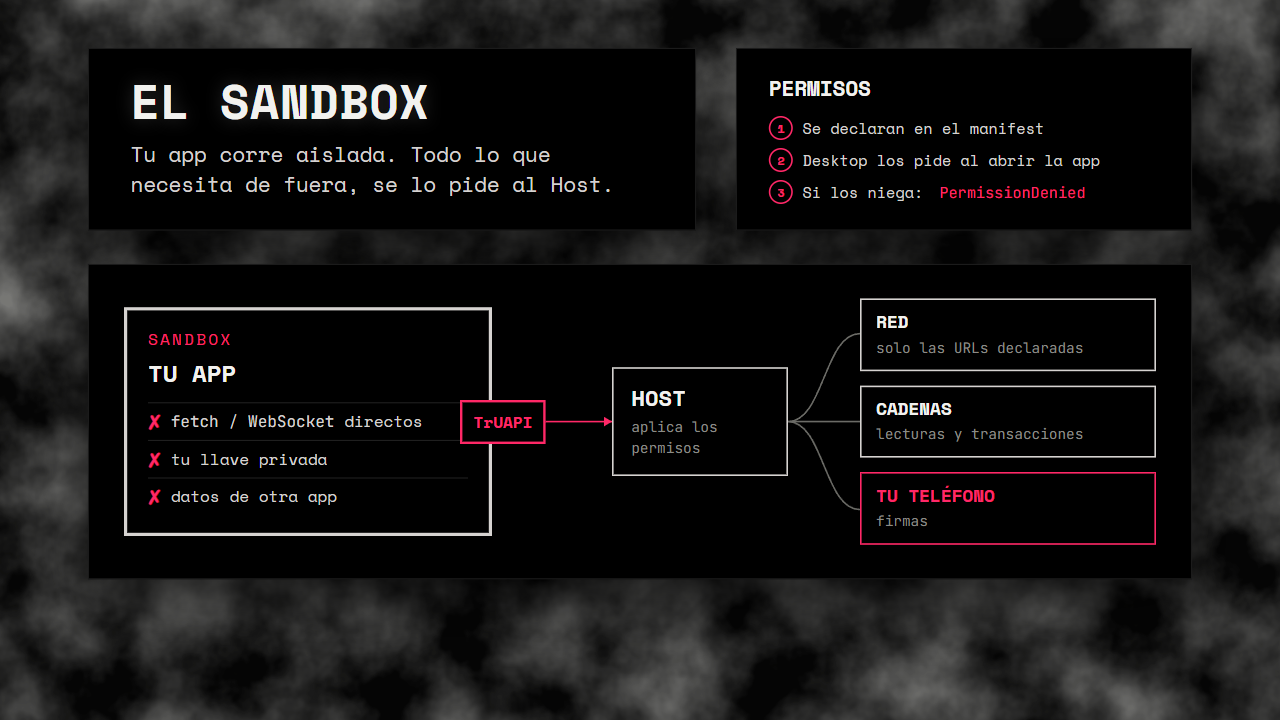
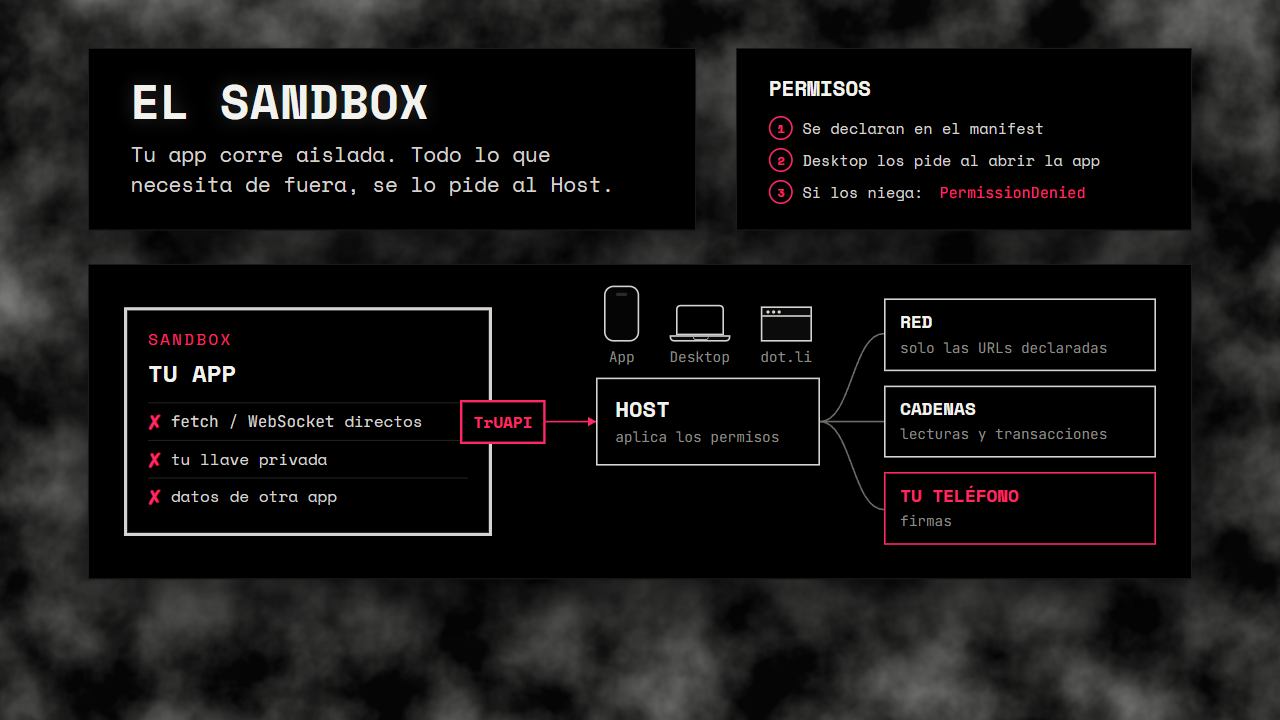
docs(slides): ajustes de diapositivas (portadas visuales, sandbox con hosts, contratos, contexto, skills, publicar)

Changed region(s): [[0.4688, 0.3972, 0.875, 0.7333], [0.5312, 0.3972, 0.5625, 0.4278]]

diff --git a/slides/00-introduccion.html b/slides/00-introduccion.html
@@ -25,10 +25,15 @@
     <div class="tape" style="right:60px; top:120px; transform:rotate(6deg);">SIN SERVIDORES</div>
     <div class="tape" style="left:150px; bottom:100px; transform:rotate(5deg);">TU IDENTIDAD</div>
     <div class="tape" style="right:120px; bottom:110px; transform:rotate(-4deg);">TU APP .DOT</div>
-    <div class="panel" style="left:220px; top:248px; width:1160px;">
+    <div class="panel" style="left:110px; top:248px; width:900px;">
       <div class="kicker">Bootcamp + Hackatón · UANL 2026</div>
-      <div class="title">Construye y publica<br>tu app en Polkadot</div>
+      <div class="title" style="font-size:64px;">Construye y publica<br>tu app en Polkadot</div>
       <div class="sub">Con IA, desde cero, hasta tenerla en el celular de cualquiera.</div>
+    </div>
+    <div class="panel" style="left:1100px; top:240px; width:390px; padding:30px 50px 32px;">
+      <div class="kicker" style="letter-spacing:.2em;">Haz fork y síguelo</div>
+      <img class="qr" src="assets/qr-repo.svg" alt="Código QR del repositorio del tutorial" style="margin-top:20px; width:240px; height:240px;">
+      <div class="small" style="font-size:18px; margin-top:18px; color:var(--muted);">github.com/BrandonFilth/<br>polkadot-devnet-workshop</div>
     </div>
   </section>
 
@@ -39,12 +44,11 @@
       <div class="title" style="font-size:72px;">Tu app en Polkadot</div>
       <div class="sub">Una app y un smart contract, hechos con IA, en tu propio dominio <span class="pink">.dot</span>.</div>
     </div>
-    <div class="item flow" style="left:110px; top:560px;">
+    <div class="item flow" style="left:110px; top:660px;">
       <div class="chip"><b>Tu app</b><span>corre en la Polkadot App</span></div>
       <div class="chip"><b>Tu smart contract</b><span>lo despliegas tú</span></div>
       <div class="chip"><b class="pink">Tu .dot</b><span>tu propio dominio</span></div>
     </div>
-    <div class="item lead" style="left:110px; top:710px; width:960px; font-size:22px;">Ejemplo: Polka-Man en <span class="pink">polka-man.dot</span>. En el hackatón construyes la tuya de la misma forma.</div>
     <div class="item" style="left:1160px; top:90px; width:300px;">
       <div class="i-phone"><div class="i-url">polka-man.dot</div><img src="../img/cap5/polka-man-movil.png" alt="Polka-Man en el celular: HUD con puntaje, ronda, vidas y menú; el laberinto grande con Polka-Man rosa y dos fantasmas; el joystick flotante bajo el dedo y el botón rojo de pausa abajo"></div>
     </div>
@@ -83,8 +87,34 @@
         <div class="row hi"><span class="n">06</span><span class="t">Hackatón</span><span class="d">Tu proyecto</span></div>
       </div>
     </div>
-    <div class="tape" style="right:90px; top:220px; transform:rotate(7deg);">PRODUCT SDK</div>
-    <div class="tape pink" style="right:90px; bottom:250px; transform:rotate(-5deg);">HACKATÓN</div>
+    <div class="item" style="left:1060px; top:70px; width:430px; height:640px;">
+      <svg width="430" height="640" viewBox="0 0 430 640" aria-hidden="true" style="display:block;" fill="none" stroke-linecap="round" stroke-linejoin="round">
+        <path d="M100 131 C 100 180, 330 160, 330 212 C 330 260, 100 246, 100 294 C 100 342, 330 327, 330 375 C 330 423, 100 408, 100 456" stroke="#6b6b66" stroke-width="3" stroke-dasharray="4 10"/>
+        <path d="M100 456 C 100 504, 330 490, 330 538" stroke="#ff2867" stroke-width="3" stroke-dasharray="4 10"/>
+        <g stroke="#3a3a37" stroke-width="2" fill="#050505">
+          <circle cx="100" cy="131" r="40"/><circle cx="330" cy="212" r="40"/><circle cx="100" cy="294" r="40"/>
+          <circle cx="330" cy="375" r="40"/><circle cx="100" cy="456" r="40"/>
+        </g>
+        <circle cx="330" cy="538" r="40" stroke="#ff2867" stroke-width="2" fill="#050505"/>
+        <g stroke="#d6d3d1" stroke-width="3">
+          <!-- 01 teléfono -->
+          <g transform="translate(68 99)"><rect x="20" y="8" width="24" height="48" rx="5"/><path d="M28 49 H36"/></g>
+          <!-- 02 terminal -->
+          <g transform="translate(298 180)"><rect x="8" y="14" width="48" height="36" rx="4"/><path d="M16 26 L22 32 L16 38 M26 40 H36"/></g>
+          <!-- 03 bloque de contrato -->
+          <g transform="translate(68 262)"><path d="M32 10 L52 21 V43 L32 54 L12 43 V21 Z M12 21 L32 32 L52 21 M32 32 V54"/></g>
+          <!-- 04 burbuja de chat -->
+          <g transform="translate(298 343)"><path d="M10 14 H54 V42 H30 L20 52 V42 H10 Z M18 24 H46 M18 32 H38"/></g>
+          <!-- 05 globo con .dot -->
+          <g transform="translate(68 424)"><circle cx="32" cy="18" r="14"/><ellipse cx="32" cy="18" rx="6" ry="14"/><path d="M18 18 H46"/></g>
+        </g>
+        <text x="100" y="484" text-anchor="middle" fill="#ff2867" style="font:18px var(--mono);">.dot</text>
+        <!-- 06 trofeo -->
+        <g transform="translate(298 506)" stroke="#ff2867" stroke-width="3">
+          <path d="M20 12 H44 V24 C44 34 38 40 32 40 C26 40 20 34 20 24 Z M20 16 H12 V20 C12 26 16 28 20 28 M44 16 H52 V20 C52 26 48 28 44 28 M32 40 V48 M22 52 H42"/>
+        </g>
+      </svg>
+    </div>
   </section>
 
   <div class="progress" id="progress"></div>

diff --git a/slides/01-como-funciona.html b/slides/01-como-funciona.html
@@ -91,6 +91,18 @@
 .d-gate > b { position: relative; margin-left: -40px; border: 3px solid var(--accent); background: #000; color: var(--accent); font: 700 20px var(--display); padding: 10px 14px; }
 .d-gate > i { flex: 1; border-top: 2px solid var(--accent); position: relative; }
 .d-gate > i::after { content: ''; position: absolute; right: 0; top: -7px; border: 6px solid transparent; border-left: 10px solid var(--accent); border-right: 0; }
+/* Miniaturas de los tres Hosts sobre el recuadro Host del sandbox */
+.d-hosts { position: absolute; left: 10px; right: 10px; bottom: calc(100% + 14px); display: flex; justify-content: space-between; align-items: flex-end; }
+.d-hosts > div { display: flex; flex-direction: column; align-items: center; gap: 8px; }
+.d-hosts span { font: 18px var(--mono); color: var(--muted); }
+.d-hosts .v-phone { width: 44px; height: 70px; border-radius: 12px; padding: 0; }
+.d-hosts .v-phone::before { top: 7px; width: 14px; height: 4px; margin-left: -7px; }
+.d-hosts .v-laptop .v-screen { width: 60px; height: 38px; margin: 0 8px; padding: 0; border-radius: 6px 6px 0 0; }
+.d-hosts .v-laptop .v-base { height: 8px; border-radius: 0 0 6px 6px; }
+.d-hosts .v-laptop .v-base::after { width: 18px; height: 3px; margin-left: -9px; border-width: 1px; }
+.d-hosts .v-win { width: 64px; height: 44px; border-color: #d6d3d1; }
+.d-hosts .v-win .v-bar { height: 11px; padding: 0 5px; gap: 3px; border-bottom: 2px solid #d6d3d1; }
+.d-hosts .v-win .v-bar i { width: 4px; height: 4px; background: #d6d3d1; }
 /* Ramas de una cuenta raíz */
 .d-pair { display: flex; flex-direction: column; align-items: stretch; }
 .d-pair .d-down { font: 700 26px var(--display); color: var(--muted); text-align: center; padding: 6px 0; }
@@ -145,9 +157,6 @@
       </div>
       <div class="d-lbl">Polkadot Web</div>
     </div>
-
-    <div class="tape" style="left:1300px; top:110px; transform:rotate(6deg);">SANDBOX</div>
-    <div class="tape pink" style="left:880px; top:735px; transform:rotate(-3deg);">CLIENTE LIGERO</div>
   </section>
 
   <!-- 2 · El Triángulo -->
@@ -227,7 +236,7 @@
       <div class="c-ord"><i>3</i>Si los niega: <span style="font-family:var(--mono); color:var(--accent); margin-left:8px;">PermissionDenied</span></div>
     </div>
 
-    <div class="panel" style="left:110px; top:330px; width:1380px; padding:36px 44px; display:grid; grid-template-columns:460px 150px 220px 90px 1fr; align-items:center;">
+    <div class="panel" style="left:110px; top:330px; width:1380px; padding:36px 44px; display:grid; grid-template-columns:460px 130px 280px 80px 1fr; align-items:center;">
       <div class="d-sbx">
         <div class="d-k pink" style="border:0; padding:0;">sandbox</div>
         <b>Tu app</b>
@@ -236,9 +245,16 @@
         <div><span class="c-x">✘</span>datos de otra app</div>
       </div>
       <div class="d-gate"><b>TrUAPI</b><i></i></div>
-      <div class="c-box" style="padding:20px 22px;"><b style="font-size:28px;">Host</b><span>aplica los permisos</span></div>
-      <svg width="90" height="320" viewBox="0 0 90 320" aria-hidden="true" style="display:block;">
-        <path d="M0 160 C 45 160, 45 50, 90 50 M0 160 H 90 M0 160 C 45 160, 45 270, 90 270" stroke="#6b6b66" stroke-width="2" fill="none"/>
+      <div style="position:relative;">
+        <div class="d-hosts">
+          <div><div class="v-phone"></div><span>App</span></div>
+          <div><div class="v-laptop"><div class="v-screen"></div><div class="v-base"></div></div><span>Desktop</span></div>
+          <div><div class="v-win"><div class="v-bar"><i></i><i></i><i></i></div></div><span>dot.li</span></div>
+        </div>
+        <div class="c-box" style="padding:20px 22px;"><b style="font-size:28px;">Host</b><span>aplica los permisos</span></div>
+      </div>
+      <svg width="80" height="320" viewBox="0 0 80 320" aria-hidden="true" style="display:block;">
+        <path d="M0 160 C 40 160, 40 50, 80 50 M0 160 H 80 M0 160 C 40 160, 40 270, 80 270" stroke="#6b6b66" stroke-width="2" fill="none"/>
       </svg>
       <div style="display:flex; flex-direction:column; gap:18px;">
         <div class="c-box"><b>Red</b><span>solo las URLs declaradas</span></div>

diff --git a/slides/02-entorno.html b/slides/02-entorno.html
@@ -39,38 +39,10 @@
     <div class="tape pink" style="right:70px; top:120px; transform:rotate(4deg);">DEVNET</div>
   </section>
 
-  <!-- 2 · Verificar y clonar -->
-  <section class="slide grid" data-title="Verifica todo">
-    <div class="item" style="left:110px; top:80px;">
-      <div class="title" style="font-size:64px;">Verifica todo</div>
-    </div>
-
-    <div class="item term" style="left:110px; top:220px; width:900px;">
-      <div class="bar"><i></i><i></i><i></i><span>Terminal</span></div>
-      <div class="body">
-        <div class="cmd" style="white-space:nowrap; font-size:20px;">gh repo fork BrandonFilth/polkadot-devnet-workshop --clone</div>
-        <div class="cmd">pnpm install</div>
-        <div><span class="ok">✔</span> Product SDK <span class="dim">0.27.0</span></div>
-        <div class="cmd" style="margin-top:16px;">node scripts/verificar-entorno.mjs</div>
-        <div><span class="ok">✔</span> Node.js <span class="dim">v24.11.0</span> · pnpm <span class="dim">12.6.0</span></div>
-        <div><span class="ok">✔</span> GitHub: tu sesión <span class="dim">tu-usuario</span></div>
-        <div><span class="ok">✔</span> Polkadot Desktop <span class="dim">instalado</span></div>
-        <div><span class="ok">✔</span> pad <span class="dim">0.16.7</span> · dotns <span class="dim">0.9.5</span></div>
-        <div><span class="warn">!</span> A mano <span class="dim">Polkadot App, Kiro y MetaMask</span></div>
-      </div>
-    </div>
-
-    <div class="panel" style="left:1090px; top:220px; width:400px; padding:30px 50px 32px;">
-      <div class="kicker">Haz fork y síguelo</div>
-      <img class="qr" src="assets/qr-repo.svg" alt="Código QR del repositorio del tutorial" style="margin-top:20px; width:270px; height:270px;">
-      <div class="small" style="font-size:18px; margin-top:18px; color:var(--muted);">github.com/BrandonFilth/<br>polkadot-devnet-workshop</div>
-    </div>
-  </section>
-
   <div class="progress" id="progress"></div>
   <footer class="foot">
     <a href="../contenido/02-entorno.md">Guía: contenido/02-entorno.md</a>
-    <span><span id="count">01 / 02</span></span>
+    <span><span id="count">01 / 01</span></span>
   </footer>
 </main>
 <script src="assets/deck.js"></script>

diff --git a/contenido/02-entorno.md b/contenido/02-entorno.md
@@ -369,8 +369,6 @@ Todo lo que se puede revisar desde aquí está listo.
 - `✘` falta algo: debajo te dice cómo arreglarlo.
 - `!` es un aviso o algo que tienes que revisar tú.
 
-![Verifica todo: fork, pnpm install y el resultado de verificar-entorno](../img/cap2/verifica-todo.png)
-
 ---
 
 ## Lista final
